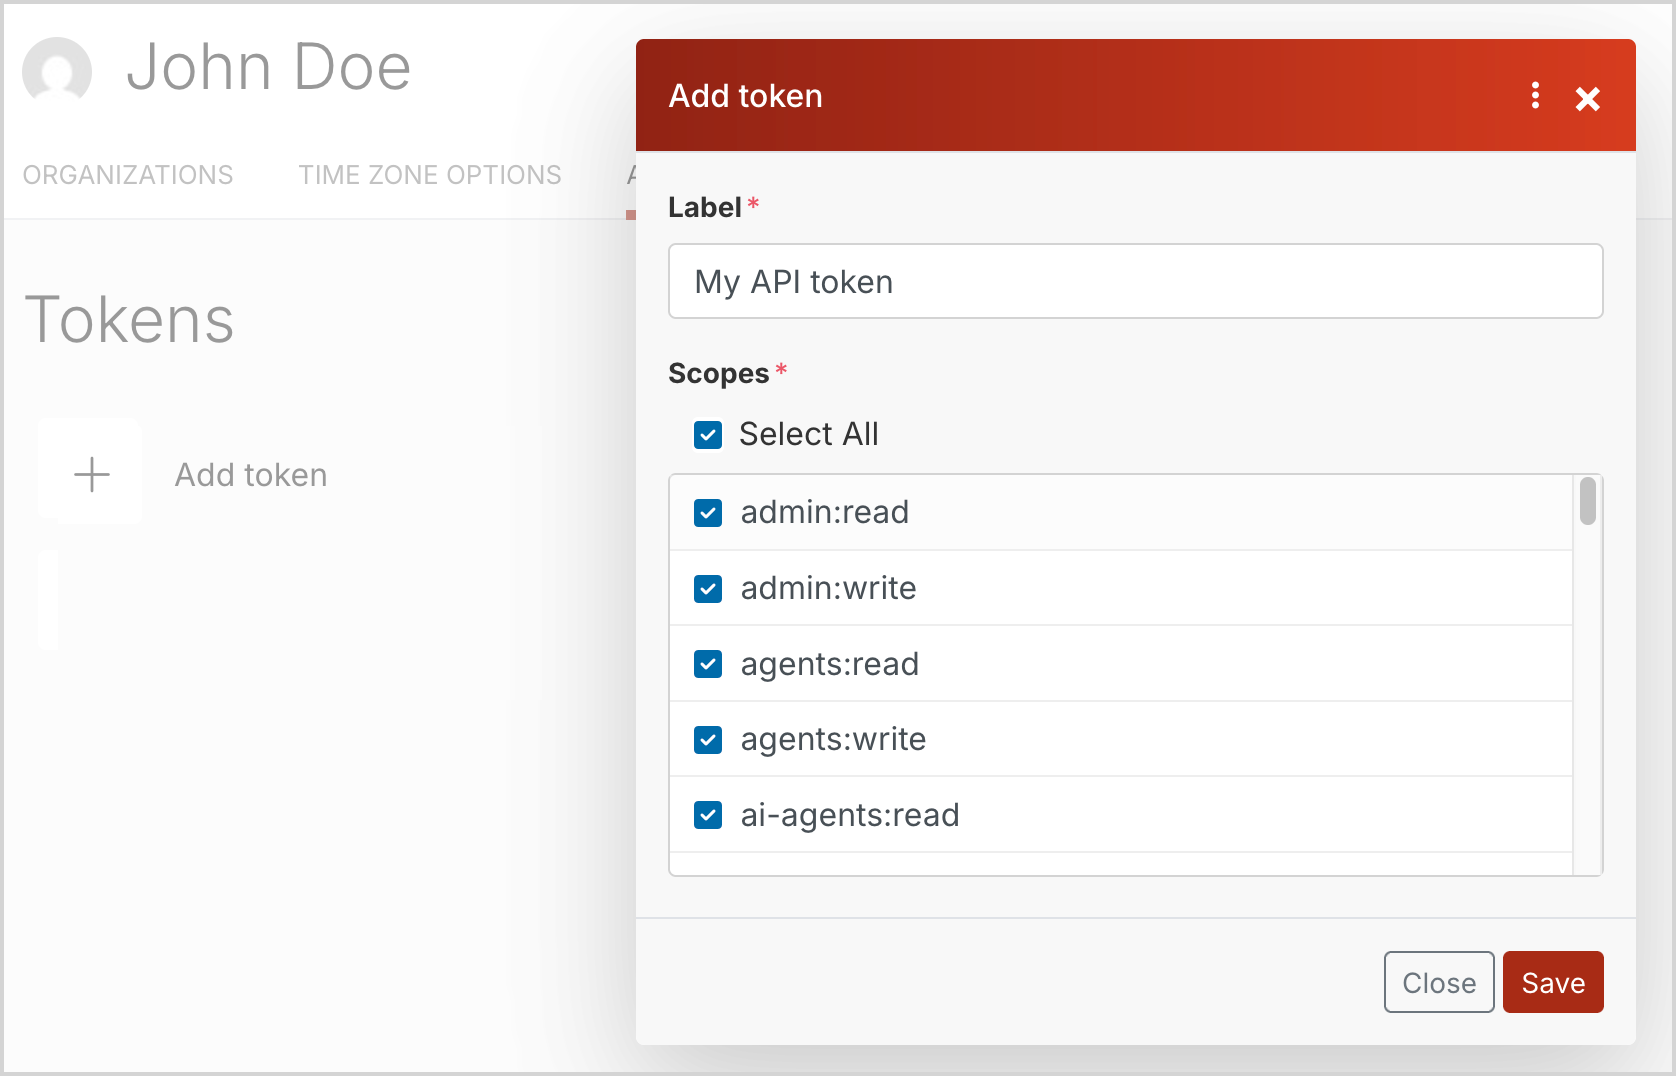
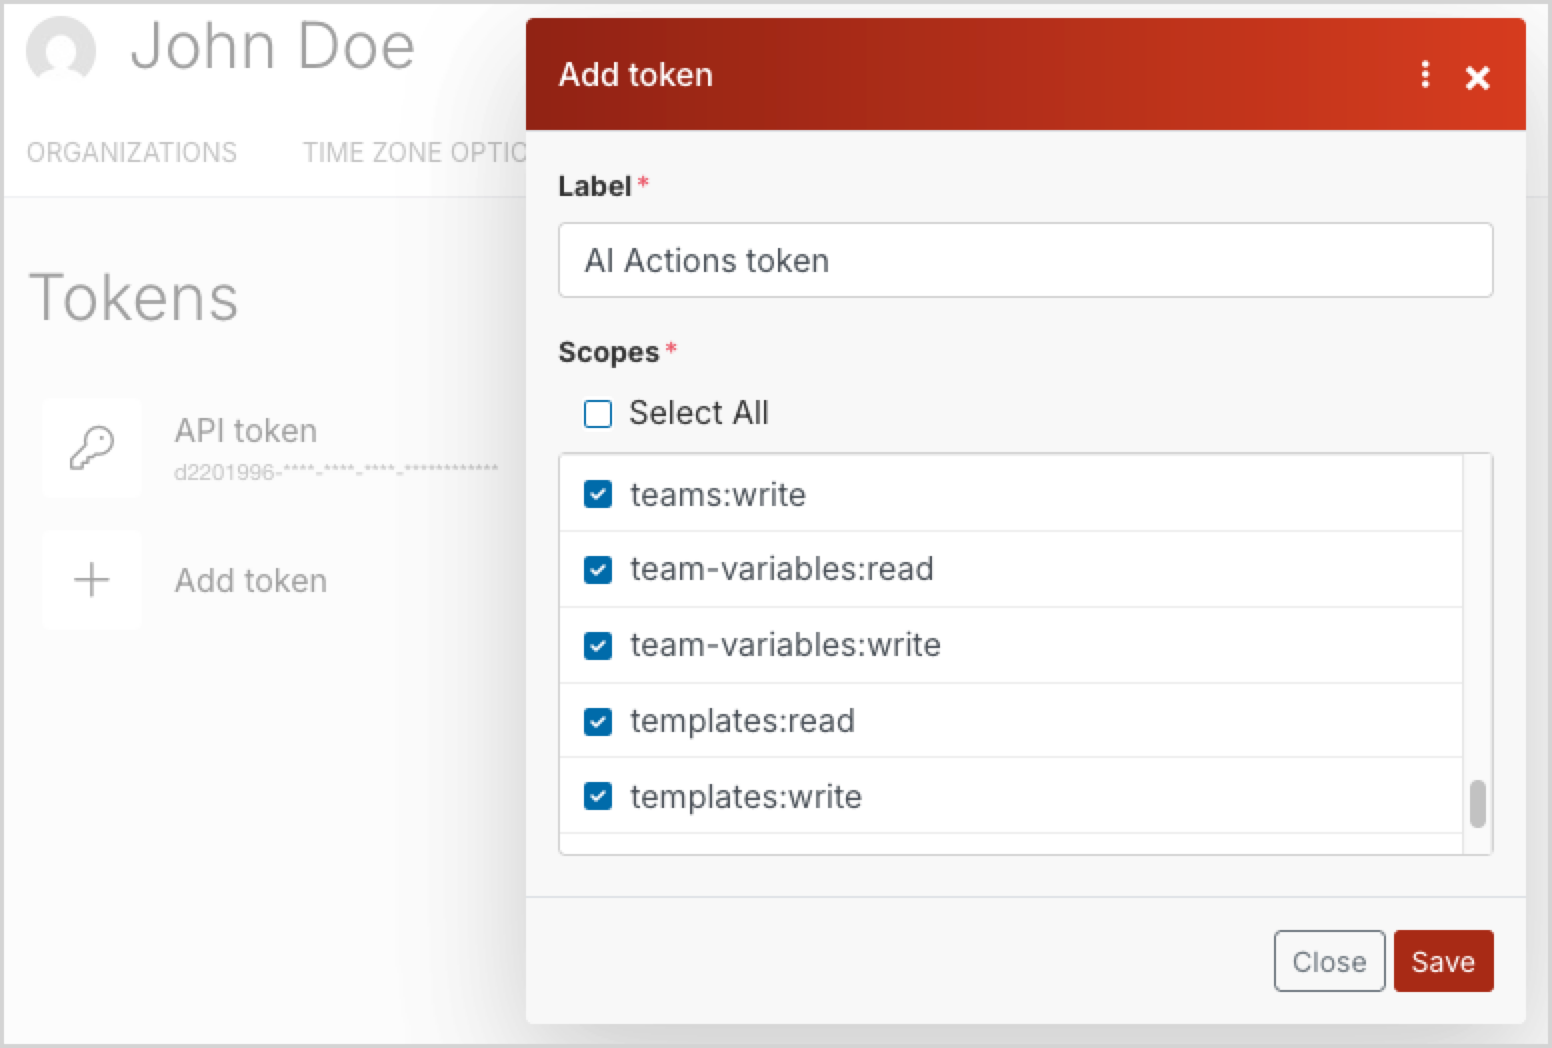
IBX-9621: Add permissions to Connect configuration

diff --git a/docs/ai_actions/install_ai_actions.md b/docs/ai_actions/install_ai_actions.md
@@ -9,7 +9,7 @@ AI Actions are available as an LTS update to [[= product_name =]] starting with 
 To use this feature you must first install the package.
 You can then install and configure the service connectors or build your own ones.
 
-## Install the framework
+## Install framework
 
 Run the following command to install the package:
 
@@ -20,7 +20,7 @@ composer require ibexa/connector-ai
 This command adds the framework code, service handlers, Twig templates, and configurations required for using AI Actions.
 It also modifies the permission system to account for the new functionality.
 
-## Modify the database schema
+## Modify database schema
 
 Create the `add_ai_actions.sql` file that contains the following code.
 
@@ -105,9 +105,24 @@ If specific users from the team are supposed to modify scenario settings, you mu
 ### Create token
 
 Navigate to your [[= product_name_connect =]] user's profile, and on the **API ACCESS** tab, create a new token.
-Copy the token code that appears next to the label.
+Select the following scopes to set permissions needed to enable the integration of platforms:
+
+- `custom-property-structures:read`
+- `custom-property-structures:write`
+- `scenarios:read`
+- `scenarios:write`
+- `hooks:read`
+- `hooks:write`
+- `templates:read`
+- `templates:write`
+- `udts:read`
+- `udts:write`
+- `team-variables:read`
+- `team-variables:write`
 
 ![Creating an API token](img/connect_api_token.png)
+
+Copy the token code that appears on the tokens list, next to the label.
 
 ### Set up credentials
 
